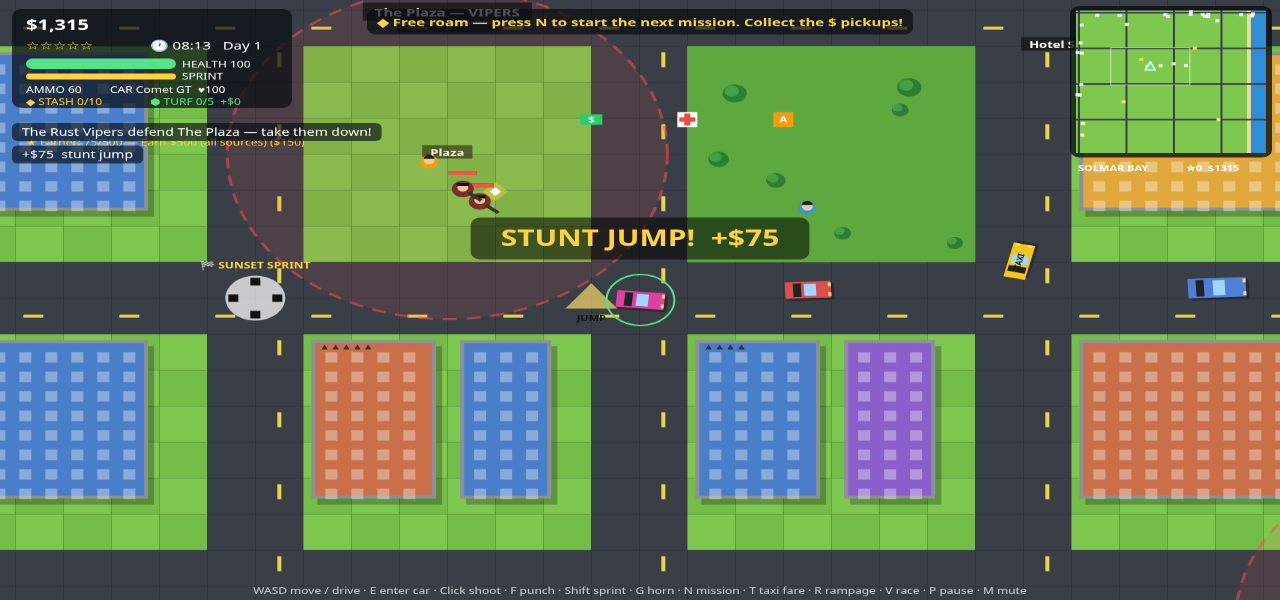
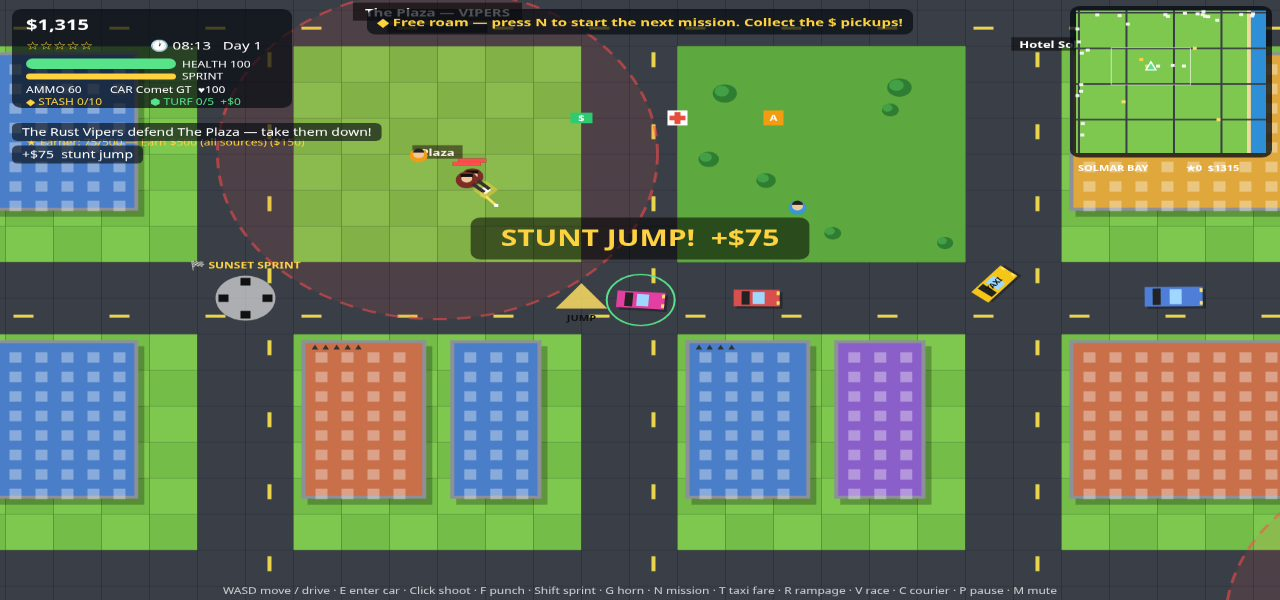
Round 3: 5th race, night race bonus, turf king bonus, courier rush gigs
- races.js: 5th race 'Harbor Lights' ($1000, rival 340); night races pay
  a 1.5x bonus after 20:00
- territory.js: owning all 5 zones at once pays a one-time $500
  'King of Solmar Bay' bonus
- courier.js: 1-in-10 gigs is a rush job — half the time, double the pay
- Screenshots 2-4 re-taken with the final build and visually verified

diff --git a/game/src/races.js b/game/src/races.js
@@ -58,6 +58,18 @@ export const RACE_DEFS = [
       { x: 25 * TILE, y: 57 * TILE },
     ],
   },
+  {
+    id: 5, name: 'Harbor Lights', reward: 1000, rivalSpeed: 340,
+    start: { x: 57 * TILE, y: 17 * TILE },
+    checkpoints: [
+      { x: 57 * TILE, y: 33 * TILE },
+      { x: 41 * TILE, y: 33 * TILE },
+      { x: 41 * TILE, y: 49 * TILE },
+      { x: 25 * TILE, y: 49 * TILE },
+      { x: 25 * TILE, y: 17 * TILE },
+      { x: 41 * TILE, y: 17 * TILE },
+    ],
+  },
 ];
 
 // The race state lives on S.race so save/load, the HUD and the renderer can
@@ -190,18 +202,23 @@ export function updateRaces(S, dt, audio) {
 }
 
 // Crossing the last checkpoint pays out. Beating the rival doubles the
-// reward; a first finish always records the best time for the race.
+// reward; a first finish always records the best time for the race. Racing
+// after dark pays a 50% night bonus — the streets are emptier, the stakes
+// are higher, and the city looks better with its lights on.
 function finishRace(S, audio) {
   const race = S.race;
   const def = race.def;
   const rivalDone = race.rival && race.rival.finished;
-  const payout = rivalDone ? def.reward : def.reward * 2;
+  let payout = rivalDone ? def.reward : def.reward * 2;
+  const hour = (S.clockMin / 60) % 24;
+  const isNight = hour >= 20 || hour < 5;
+  if (isNight) payout = Math.round(payout * 1.5);
   const t = race.timer;
   const prev = race.best[def.id];
   const isRecord = !prev || t < prev;
   if (isRecord) race.best[def.id] = Math.round(t * 10) / 10;
   race.won++;
-  addMoney(S, payout, `${def.name} ${rivalDone ? '(rival won)' : 'WIN!'} — ${t.toFixed(1)}s`);
+  addMoney(S, payout, `${def.name} ${rivalDone ? '(rival won)' : 'WIN!'} — ${t.toFixed(1)}s${isNight ? ' (night bonus x1.5)' : ''}`);
   S.mission.banner = rivalDone
     ? `${def.name.toUpperCase()} DONE — ${t.toFixed(1)}s`
     : `${def.name.toUpperCase()} — YOU WIN! ${t.toFixed(1)}s`;

diff --git a/game/src/territory.js b/game/src/territory.js
@@ -91,6 +91,15 @@ export function updateTerritory(S, rng, dt, audio) {
         S.mission.bannerT = 3.5;
         addMessage(S, `${zone.name} flies your colours now — it pays $${TURF_INCOME_PER_ZONE} every ${TURF_INCOME_EVERY}s.`);
         if (audio) audio.turfWin();
+        // Owning all five zones at once is the turf endgame: a one-time
+        // king's ransom, and a banner the whole city can read.
+        if (turfOwnedCount(S) >= TURF_ZONES.length && !S.turf.kingPaid) {
+          S.turf.kingPaid = true;
+          addMoney(S, 500, 'KING OF SOLMAR BAY — all 5 zones yours!');
+          S.mission.banner = 'KING OF SOLMAR BAY — ALL 5 ZONES YOURS!';
+          S.mission.bannerT = 5;
+          addMessage(S, 'Every corner of Solmar Bay flies your colours. The Vipers are done here.');
+        }
       }
     } else {
       // Away from the zone, control slowly cools back toward the owner's

diff --git a/game/src/courier.js b/game/src/courier.js
@@ -47,9 +47,16 @@ export function startCourier(S, rng, audio) {
   gig.active = true;
   gig.stage = 0;
   gig.timer = COURIER_LEG_TIME;
+  // One gig in ten is a rush job: half the time, double the pay, and the
+  // dispatcher says so up front — a gamble for drivers who know the roads.
+  gig.rush = Math.random() < 0.1;
+  if (gig.rush) {
+    gig.timer = Math.round(COURIER_LEG_TIME / 2);
+    gig.pay *= 2;
+  }
   S.mission.banner = `COURIER GIG — pick up at ${gig.pickup.label}`;
   S.mission.bannerT = 3;
-  addMessage(S, `Courier gig: pick up the package at ${gig.pickup.label}, drop it at ${gig.drop.label} — $${gig.pay} plus a speed tip.`);
+  addMessage(S, `Courier gig: pick up the package at ${gig.pickup.label}, drop it at ${gig.drop.label} — $${gig.pay} plus a speed tip.${gig.rush ? ' RUSH JOB — half the time, double the pay!' : ''}`);
   if (audio) audio.pickup();
 }
 
